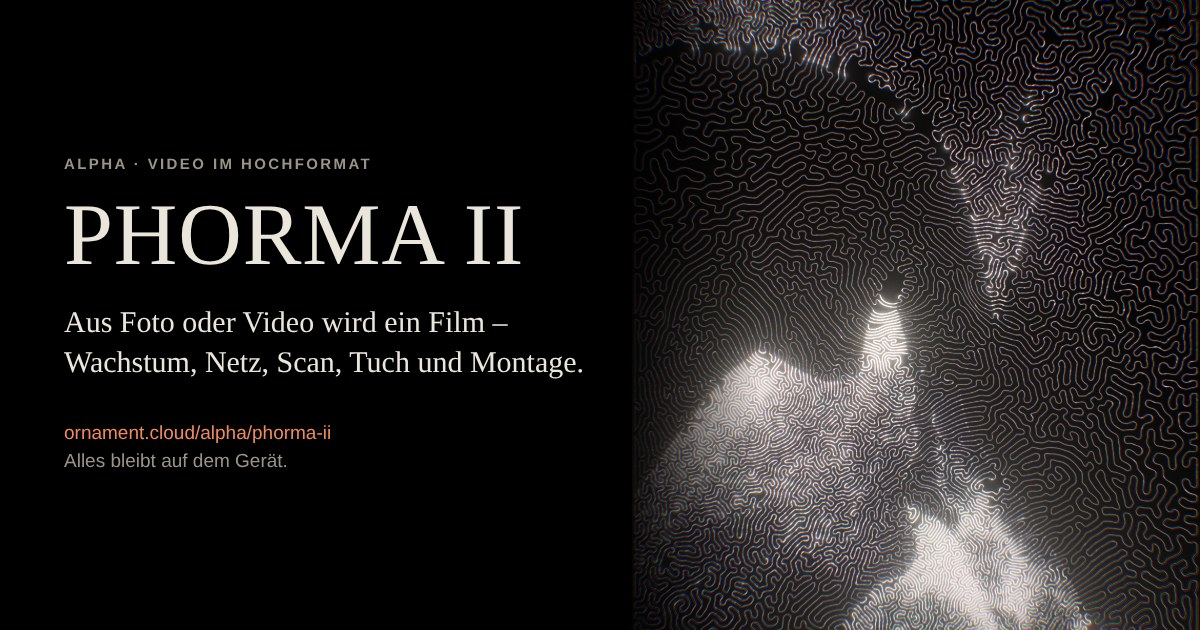
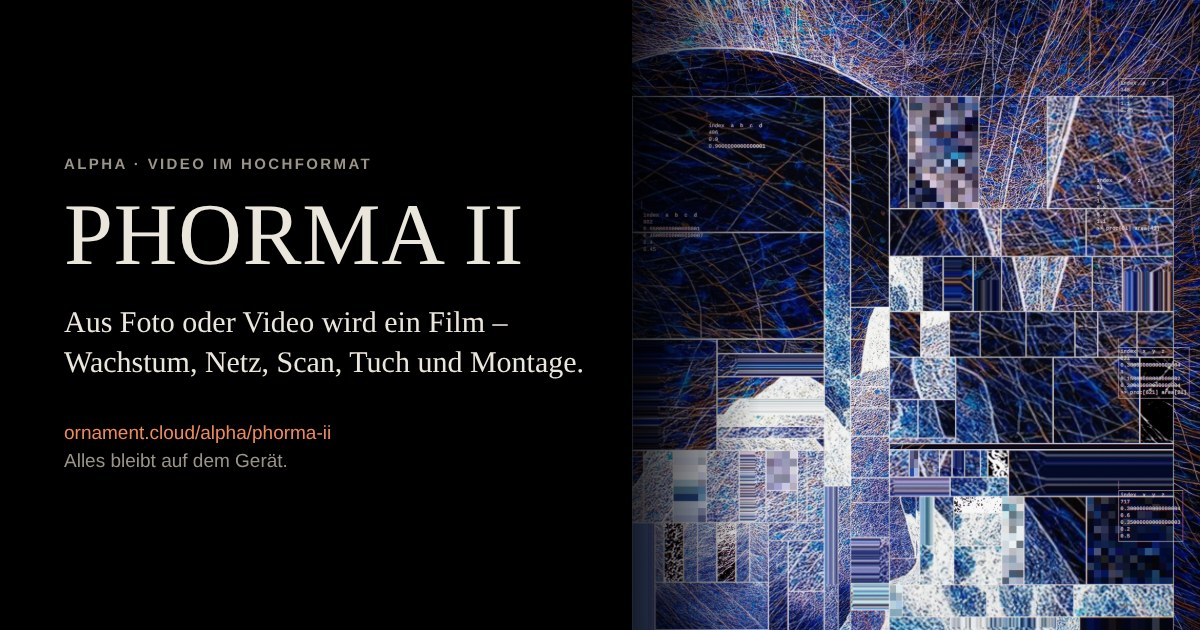
PHORMA II: die Montage als Beitragsbild und Vorschaukachel
Wunsch: «Ich hätte eher die Montage-Version genommen fürs Beitragsbild».

Claude-Session: https://claude.ai/code/session_01DNggfoZaFgmyDh3WFuhLP1

diff --git a/alpha/phorma-ii/index.html b/alpha/phorma-ii/index.html
@@ -29,7 +29,7 @@
   <meta property="og:image" content="https://ornament.cloud/alpha/phorma-ii/og-phorma-ii.jpg">
   <meta property="og:image:width" content="1200">
   <meta property="og:image:height" content="630">
-  <meta property="og:image:alt" content="PHORMA II: links der Titel und der Satz «Aus Foto oder Video wird ein Film – Wachstum, Netz, Scan, Tuch und Montage.», rechts eine leuchtende Linie, die sich dicht gefaltet zu einem Bild fügt.">
+  <meta property="og:image:alt" content="PHORMA II: links der Titel und der Satz «Aus Foto oder Video wird ein Film – Wachstum, Netz, Scan, Tuch und Montage.», rechts das Bild, in verschachtelte Rechtecke zerschnitten, mit feinen hellen Rändern und kleinen Zahlentafeln.">
   <meta name="twitter:card" content="summary_large_image">
   <meta name="twitter:title" content="PHORMA II">
   <meta name="twitter:description" content="PHORMA II: Aus Foto oder Video wird ein Film – Wachstum, Netz, Scan, Tuch und Montage. Als Video im Hochformat für Social Media, alles im Browser.">

diff --git a/apps/index.html b/apps/index.html
@@ -63,7 +63,7 @@
       </article>
 
       <!-- PHORMA II: Alpha-Version im Browser (keine App), seit 19. Oktober 2026 zwischen PHORMA III und PHORMA I (Wunsch: «ein qualitativ besseres Bild für
-           die Beitragskarte von PHORMA II»). Bild: die leuchtende Linie des Wachstums, von der Anwendung selbst in voller Grösse gerechnet
+           die Beitragskarte von PHORMA II»). Bild: die Montage (Wunsch: «Ich hätte eher die Montage-Version genommen»), von der Anwendung selbst in voller Grösse gerechnet
            (assets/vorschau-phorma-ii.jpg aus tools/phorma-ii-bilder.mjs) -->
       <article class="card">
         <a class="thumb" href="../alpha/phorma-ii/" tabindex="-1" aria-hidden="true">

diff --git a/README.md b/README.md
@@ -246,7 +246,7 @@ Alles liegt auf dem eigenen Server – es werden keine Dateien von claude.ai, CD
   **Montage** (seit 19. Oktober 2026, Wunsch nach dem Clip «UVA»: «eine neue Animation für Bilder … in diesem Stil»; `montageplan.js` ohne Grafik, `montage.js`): das Foto zerfällt in verschachtelte Rechtecke um das Motiv (Wichtigkeit aus Tiefe und Kanten; aussen bleibt das Foto), jedes zeigt einen eigenen Ausschnitt – vergrössert, versetzt, von anderswo oder ab einer Linie zu Streifen gezogen, dazu seitlich herausgeschobene Streifen –, Teilfelder erben meist den Ausschnitt ihres Elternfelds, so laufen die feinen hellen Ränder über zusammenhängende Stücke; kleine Zahlentafeln («index x y z», Gleitkommazahlen) in den ruhigen Stellen. 01 Schnitte (auf jedem Schlag, immer mehr Felder; als erster Effekt einzeln aus dem Dunkeln), 02 Montage (Schnitte nach 1–4 Schlägen à 0,5 s, dicht und licht im Wechsel; die neue Aufteilung wächst in wenigen Bildern, Ausschnitte gleiten, einzelne zucken auf dem Schlag), 03 Bild (die Felder rasten nacheinander ein); zusammen 12 s. Eigene Karte und Schalter; nicht in «Alle drei als Kette», in einer eigenen Kette immer am Schluss (nach dem Tuch beginnt sie beim Foto). Ist sie der letzte Effekt, kommt auch das Signet am Schluss in ihrem Stil (seit 19. Oktober 2026, Wunsch: «bitte Logo-Animation am Schluss auf diesen Style anpassen»; `montageSignet`): das Signet zeichnet sich wie immer, zeigt sich zuerst nur in einzelnen Feldern aus dem Dunkeln, wird im doppelten Takt (0,25 s) dicht geschnitten und rastet bis zur Mitte seines Stehens ein; danach zeichnet `film.js` es selbst, unverändert. Seit 19. Oktober 2026 nahtlos (Rückmeldung: «Das Schlussbild bleibt relativ lange stehen, bevor das Logo kommt. Das kann nahtloser passieren»): nach der Montage steht das Foto nur 1 s statt 3,2 s, ohne Ausblenden und Pause; das Signet zeichnet sich gleich über das Foto, das unter den schneidenden Feldern in 0,85 s vergeht (`zeit.nahtlos`). Seit dem Abend des 19. Oktober 2026 ganz ohne Halt (Rückmeldung: «sie endet, es kommt das Schlussbild und startet nochmals vor dem Logo»): mit Signet schneidet die Montage durch bis ans Ende (`durch`, ohne Einrasten), das Signet beginnt im selben Bild, dicht geschnitten (`sofort`, keine Phase «stehen»). Dazu **schärfer und abwechslungsreicher** (Wunsch: «der Montage-Effekt insgesamt könnte noch etwas schärfer und abwechslungsreicher sein»): ohne Glühen, hellere feine Ränder, Ausschnitte höchstens 2,3-fach vergrössert; Schnitte nach 1–3 Schlägen, oft ein Doppelschnitt kurz danach (Stottern); neben der Teilung nach Wichtigkeit auch ungleiche Raster und durchgehende Streifen (je 16 %); einzelne Felder gespiegelt, verpixelt, mit versetzten Farbkanälen, negativ oder hart schwarzweiss (`STIL`), mit Video zeigen manche eine frühere Stelle (0,35 oder 0,9 s, `ZEITVERSATZ`); die groben Felder stehen sofort (sonst blitzte bei jedem Schnitt das ganze Foto auf).
   **Wachstum** (seit 19. Oktober 2026, Wunsch nach dem Clip «algorigraph»: «so etwas, aber natürlich noch viel besser», Standard «leuchtende Linie auf Schwarz»; `wachstumsim.js` ohne DOM, Worker `wachstumrechner.js`, `wachstum.js`): Differential Growth – eine einzige geschlossene Linie wächst aus einem kleinen Kreis im Schwerpunkt des Motivs; ihre Punkte stossen einander ab (Abstand je Stelle aus dem Foto: hell eng, dunkel weit, an Kanten enger, auf den Tonumfang des Motivs gestreckt), Nachbarn ziehen sich glatt, zu lange Kanten werden geteilt, wo noch Platz ist, kommen Punkte dazu und die Linie schiebt sich nach aussen; die Zahl der Punkte folgt einem Plan (voll bei drei Vierteln des Wachstums), der Schritt ist auf ein Fünftel des Abstands begrenzt (sonst schaukelte sich die Linie lawinenartig auf). Bei ruhigem, einfarbigem Rand (ein Porträt vor einer Wand; drei Viertel des Rands gleichen seinem Median) wächst sie nur im Motiv – alles, was sich in der Farbe vom Rand abhebt –, sonst füllt sie das ganze Bild (bis 19. Oktober 2026 das Nahe aus der Tiefe; Rückmeldung vom Telefon: «hat nicht das ganze Bild erreicht»). Die Bilder der Bahn kommen in Päckchen aus dem Worker, die Vorschau zeigt schon das Wachstum, während der Rest rechnet (Rückmeldung: «der Keim bleibt stehen»); auf dem Telefon gröber und mit 9 statt 12 Teilschritten. Die ganze Bahn wird einmal vorausgerechnet (Int16 je Filmbild, rund 40 000–60 000 Punkte, im Browser rund eine Minute, Telefon gröber; Meldung «Wachstum wird berechnet … %»). Gezeichnet als instanzierte Striche mit runden Enden (Abstand zur Strecke im Fragment-Shader, Mischen mit Maximum), im Hellen heller und breiter, mit Bloom. 01 Keim (1,2 s), 02 Wachstum (6,6 s), 03 Farbe (2,4 s: die Farben des Fotos), 04 Bild (2,6 s: das Foto erscheint darunter); in einer eigenen Kette vor der Montage.
   **Video als Quelle** (Etappe 2 von Montage und Wachstum, seit 19. Oktober 2026, Wunsch: «Eine neue Animation für Bilder (und wenn möglich: Videos)»; `filmquelle.js`): Foto oder Video im selben Feld, dazu «Video ab». Die Bilder liest die Filmspur von PHORMA III bildgenau (`../phorma-iii/filmspur.js?v=14`: MP4 mit WebCodecs, sonst durch Spulen; auf das Filmformat zugeschnitten, höchstens 30 s). Seit dem 19. Oktober 2026 (abends) zeigen alle Effekte das laufende Video (Rückmeldung: «bleibt ständig ein "altes" Video in den ersten drei Schritten hängen … dieses kommt dann erst ab Wachstum»; bis dahin liefen nur Montage und Wachstum, davor stand das Bild vom Ende): es läuft durch die ganze Kette, vom ersten bis zum letzten Bild, in ihrer eigenen Zeit (Tempo «ruhig» = langsamer); ist es kürzer als die Kette (höchstens 30 s werden gelesen), läuft es mehrmals hintereinander, so oft es ganz hineinpasst, jede Runde etwas gedehnt (nie langsamer als halb so schnell; die Bühne blendet dann zwischen zwei Bildern über) – seit dem 20. Oktober 2026, Wunsch: «Video wiederholen statt Zeitlupe bei sehr kurzen Videos»; davor lief es einmal, entsprechend langsamer (Rückmeldung davor: «beim Tuch erst in der zweiten Hälfte … ich vermute, dass es daran liegt, wenn ein Video kürzer ist als die Länge der Animation» – bis dahin stand ein kürzeres zuerst still). `buehne.js` zeichnet je Probe das laufende Bild in die Fototextur aller Effekte (`jetzt`; rastet ein Effekt mitten in der Kette ein, zeichnet `film.js` dieses statt des Standbilds). Das Standbild am Ende ist das Foto (Analyse, Schluss; ein Wechsel der Kette liest es neu); Tiefe und Tuch nehmen die Tiefe aus ihm. Die Felder der Montage schöpfen aus dem laufenden Bild (`filmTextur` in `gemeinsam.js`); das Wachstum folgt den Abständen der Videobilder (je 2 Filmbilder ein kleines Bild, Maske vom Standbild), Linie und Grund nehmen seine Farben. Export und Standbild legen die Bilder in voller Grösse vorher bereit. Beim Laden ein Balken über der Vorschau (seit 19. Oktober 2026, Rückmeldung: «man weiss nicht, ob das Video noch lädt oder ob etwas schiefgegangen ist … einen Upload-Balken zeigen, aber so, dass es dann auch wirklich läuft»): die Vorschau wird sofort dunkel, dann drei Schritte – Video lesen (in %), Standbild analysieren, Effekte vorbereiten (in %); erst wenn alles bereit ist, verschwindet der Balken und der Film läuft. Rückmeldungen dabei: die Montage nahm das «weich» aus `ablauf.js` (läuft stark aus) – das Einrasten ins Foto begann viel zu früh; jetzt die S-Kurve.
-  **Karte und Vorschaukachel** (seit 19. Oktober 2026, Wunsch: «ein qualitativ besseres Bild für die Beitragskarte von PHORMA II»): PHORMA II steht auf «Apps» unter «Bild und Video» zwischen PHORMA III und PHORMA I (im Browser, keine App); Bild `assets/vorschau-phorma-ii.jpg` (640 × 800) und Vorschaukachel zum Teilen `alpha/phorma-ii/og-phorma-ii.jpg` (1200 × 630), beide von `tools/phorma-ii-bilder.mjs` aus der Anwendung selbst gerechnet: die leuchtende Linie des Wachstums mit dem Beispielbild, in voller Grösse mit vier Proben, dann sorgfältig verkleinert.
+  **Karte und Vorschaukachel** (seit 19. Oktober 2026, Wunsch: «ein qualitativ besseres Bild für die Beitragskarte von PHORMA II»): PHORMA II steht auf «Apps» unter «Bild und Video» zwischen PHORMA III und PHORMA I (im Browser, keine App); Bild `assets/vorschau-phorma-ii.jpg` (640 × 800) und Vorschaukachel zum Teilen `alpha/phorma-ii/og-phorma-ii.jpg` (1200 × 630), beide von `tools/phorma-ii-bilder.mjs` aus der Anwendung selbst gerechnet: die Montage mit dem Beispielbild (Wunsch: «Ich hätte eher die Montage-Version genommen fürs Beitragsbild»; zuerst war es die leuchtende Linie des Wachstums), in voller Grösse mit vier Proben, dann sorgfältig verkleinert.
   **Seit 19. Oktober 2026 (spät)**: Reihenfolge in einer Kette Wachstum → Physarum → Tiefe (Scan) → Tuch → Montage (Wunsch: «Ich möchte einen anderen Ablauf: Wachstum, Physarum, Tiefe (Scan), Tuch, Montage»; davor stand das Wachstum nach dem Tuch), dazu die Karte «Alle fünf als Kette»; vor einem anderen Effekt zeigt das Wachstum kein Foto, die leuchtende Linie geht über die Zeitfront ins Netz. Helle Fotos (Rückmeldung: «einige Phasen sind viel zu hell (Tiefe, Tuch)», eine Zeichnung auf weissem Papier): ab einer mittleren Helligkeit von 0,5 weniger Glühen (bis −75 %, Schwelle höher) und weniger Licht in Tiefe und Tuch (bis −45 %). Ungültige Werte (NaN) aus der Grafik werden vor dem Glühen und in der Belichtung schwarz, statt sich über das ganze Bild zu verteilen (einige ganz schwarze Bilder im Video vom Telefon, hier nicht nachstellbar). Das fertige Video steht wieder im Spieler (Rückmeldung: «Das Video wird nach dem Rendern nicht angezeigt»): seit dem Video als Quelle hiessen das geladene und das fertige Video gleich (`S.film`, `#film`), das fertige landete im versteckten Element; jetzt `#quellfilm` und `S.ergebnis`.
   **Montage nach einem anderen Effekt** (seit 19. Oktober 2026, Wunsch: «Montage sollte grundsätzlich nicht mit dem fertigen Bild starten»): Rechtecke in drei Grössen schneiden den Effekt davor weg (Übergang «felder» in `buehne.js`, 0,8 s; nach Physarum und Tiefe statt der Zeitfront), darunter liegt schon die Montage, dicht und kräftig; Tuch und Wachstum zeigen vor ihr das Foto nicht (ohne Phase «Bild»).
   KI-Tiefe (`tiefe-ki.js`, nur auf Wunsch, mit Hinweis unter der Wahl): Depth Anything V2 klein über transformers.js 3.8.1 (cdn.jsdelivr.net, Modell von huggingface.co, einmal rund 25–50 MB), auf dem Gerät mit WebGPU oder WebAssembly; ohne Netz Meldung und die geschätzte Tiefe. In der Cloud-Sitzung vom 17. Oktober 2026 nicht prüfbar (beide Adressen gesperrt), geprüft ist der Rückfall.
